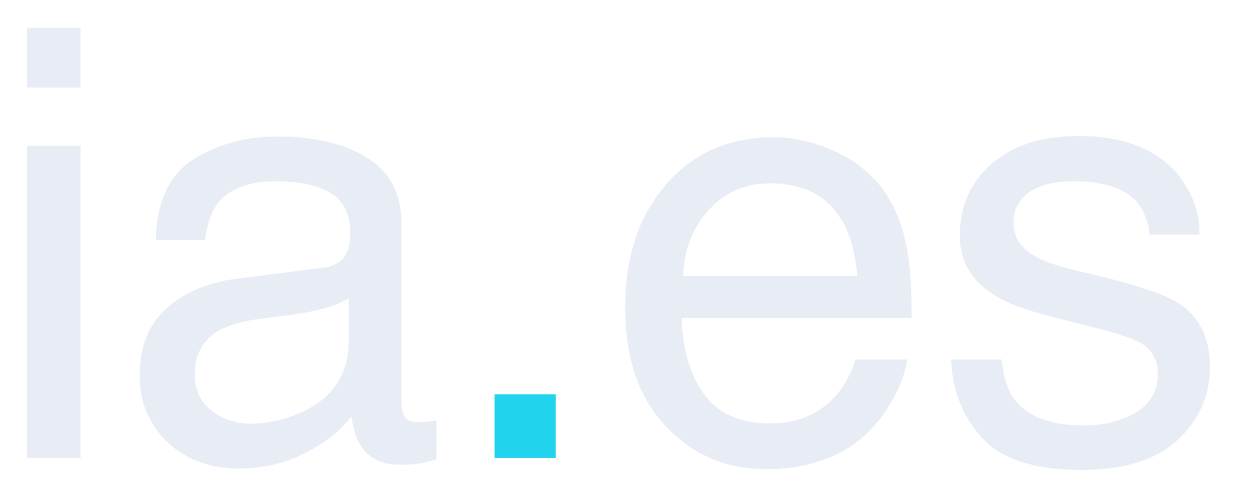
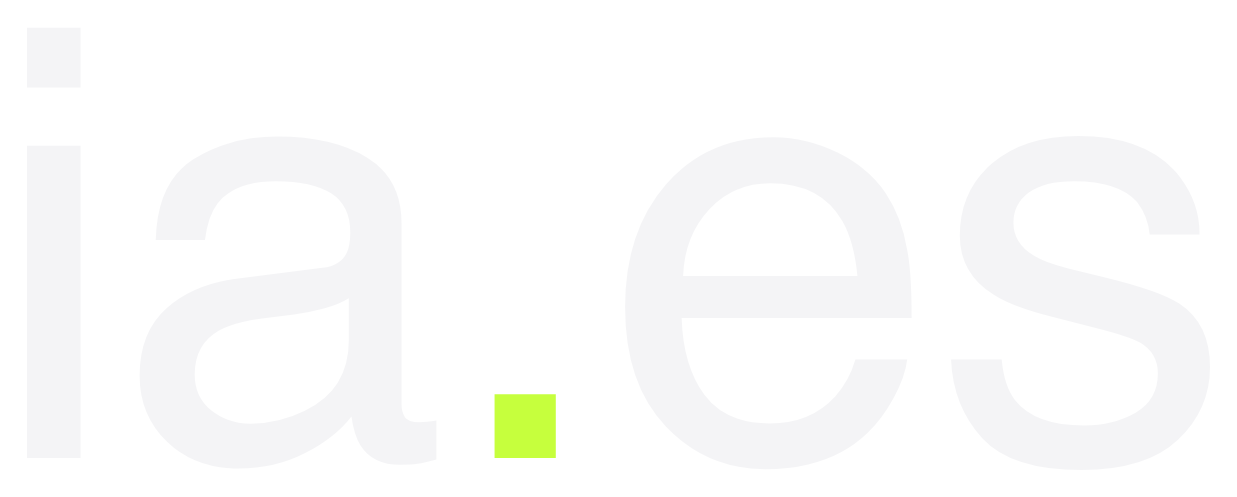
theme: tokens del look lima (bg casi negro, lima/violeta/rosa, grilla, viñeta) y wordmark con punto lima

Changed region(s): [[0.3994, 0.7847, 0.4608, 0.9356]]

diff --git a/src/theme.ts b/src/theme.ts
@@ -2,8 +2,9 @@ import type { Pillar } from "./templates/types.ts";
 
 /**
  * Valores de diseño por defecto, reutilizables por las plantillas.
- * Fuente única de tokens de marca (deriva de .context/design-brand.md):
- * navy + cian, tipografía Anton/Inter/JetBrainsMono, regla 60-30-10.
+ * Fuente única de tokens de marca: look "lima" (spec 2026-10-05, tomado de
+ * promo/reel-biblioteca/reel.html): fondo casi negro con grilla lima tenue y
+ * viñeta, acento lima + violeta + rosa, tipografía Anton/Inter/JetBrainsMono.
  * Cambia aquí para ajustar el "look" global, o sobreescribe por slide vía props.
  */
 export const theme = {
@@ -14,36 +15,55 @@ export const theme = {
   fonts: {
     display: "Anton", // titulares, SIEMPRE en MAYÚSCULAS
     body: "Inter", // cuerpo
-    mono: "JetBrainsMono", // prompts / código
+    mono: "JetBrainsMono", // etiquetas, prompts y código
   },
   colors: {
-    bg: "#0B1020", // Fondo Noche
-    panel: "#151D33",
-    panel2: "#1C2640",
-    accent: "#22D3EE", // Cian — palabra clave del titular SIEMPRE en cian (≤10%)
-    violet: "#8B5CF6", // chip pilar Noticia
-    pink: "#F471B5", // chip pilar Curiosidad
-    green: "#34D399",
-    text: "#E8ECF4",
-    textMuted: "#94A0B8",
+    bg: "#06060A", // casi negro
+    card: "#13131A", // tarjetas (chat, terminal, checklist)
+    line: "#23232E", // borde de tarjetas y separadores
+    accent: "#C6FF3D", // Lima — palabra clave del titular y números
+    onAccent: "#06060A", // texto sobre lima (pastilla, círculo del check)
+    violet: "#7C5CFF", // pilar Noticia
+    pink: "#FF3D7F", // pilar Curiosidad; tachado del mito
+    text: "#F4F4F6",
+    /** Texto secundario dentro de tarjetas (más claro que textMuted). */
+    textSoft: "#D8D8E0",
+    textMuted: "#8A8A99",
+    // Alias del look anterior (Cover/Bullet/Quote no se rediseñan).
+    panel: "#13131A",
+    panel2: "#1B1B24",
+    green: "#C6FF3D",
   },
+  /** Grilla de fondo: líneas lima al 7 %, 2 px, celda de 120 px. */
+  grid: {
+    color: "rgba(198,255,61,0.07)",
+    line: 2,
+    cell: 120,
+  },
+  /** Viñeta radial: transparente al 40 % → negro al 75 %. */
+  vignette: "radial-gradient(ellipse at 50% 45%, transparent 40%, rgba(0,0,0,0.75) 100%)",
+  /** Radio de las tarjetas (rango de marca 36-44 px). */
+  radius: 40,
   /** Escala tipográfica en px, pensada para un lienzo de 1080x1350. */
   fontSize: {
-    display: 128, // Hook (Anton)
-    title: 96,
-    heading: 64,
-    kicker: 40, // número de paso (Anton)
-    code: 34, // prompt / código (JetBrains Mono)
-    lead: 50, // promesa (Inter 600)
-    body: 44,
+    display: 150, // Hook (Anton), máximo
+    stat: 300, // número de Stat (Anton), máximo
+    stepNumber: 168, // número de paso (Anton)
+    title: 124, // Cta (Anton), máximo
+    heading: 100, // Step/Prompt (Anton), máximo
+    myth: 68, // texto de mito/realidad (Anton)
+    kicker: 40,
+    code: 36, // prompt / código (JetBrains Mono)
+    lead: 68, // promesa (Inter 600)
+    body: 42, // cuerpo, mínimo 40 en post
     caption: 32,
-    label: 28, // eyebrow / chip / fuente al pie (Inter 700, UPPER)
+    label: 28, // etiquetas mono (cabecera, eyebrow, fuente)
   },
-  /** Margen interior estándar del lienzo (escala de marca 96 / 120 / 160). */
-  padding: 120,
+  /** Margen interior estándar del lienzo. */
+  padding: 96,
 } as const;
 
-/** Color del chip según el pilar de contenido (design-brand.md §5). */
+/** Color del pilar de contenido: herramienta/prompt → lima, noticia → violeta, curiosidad → rosa. */
 export function pillarColor(pillar?: Pillar): string {
   switch (pillar) {
     case "noticia":

diff --git a/scripts/make-wordmark.py b/scripts/make-wordmark.py
@@ -1,8 +1,9 @@
 #!/usr/bin/env python3
 """
 Genera la variante solo-wordmark del logo de marca recortando el bloque superior
-("ia.es") del logo transparente, por análisis del canal alfa. Conserva el punto
-cian. Reproducible: re-ejecuta para regenerar el asset.
+("ia.es") del logo transparente, por análisis del canal alfa, y lo recolorea al
+look lima: letras en #F4F4F6 y el punto en lima #C6FF3D (el logo fuente lo trae
+cian). Reproducible: re-ejecuta para regenerar el asset.
 
 Uso: python3 scripts/make-wordmark.py
 Salida: src/assets/ia_es_wordmark.png (+ imprime WIDTH,HEIGHT,ASPECT)
@@ -73,6 +74,19 @@ top = max(0, top - pad)
 bottom = min(h, bottom + pad)
 
 crop = img.crop((left, top, right, bottom))
+
+# Recolor: el punto es el único trazo saturado (cian, R bajo); las letras son
+# gris claro. Se conserva el alfa (antialiasing) y se cambia solo el RGB.
+TEXT = (0xF4, 0xF4, 0xF6)
+LIME = (0xC6, 0xFF, 0x3D)
+cp = crop.load()
+for y in range(crop.size[1]):
+    for x in range(crop.size[0]):
+        r, g, b, a = cp[x, y]
+        if a == 0:
+            continue
+        saturated = max(r, g, b) - min(r, g, b) > 60
+        cp[x, y] = (*(LIME if saturated else TEXT), a)
 crop.save(OUT)
 cw, ch = crop.size
 print(f"WIDTH,HEIGHT,ASPECT={cw},{ch},{cw / ch:.4f}")
